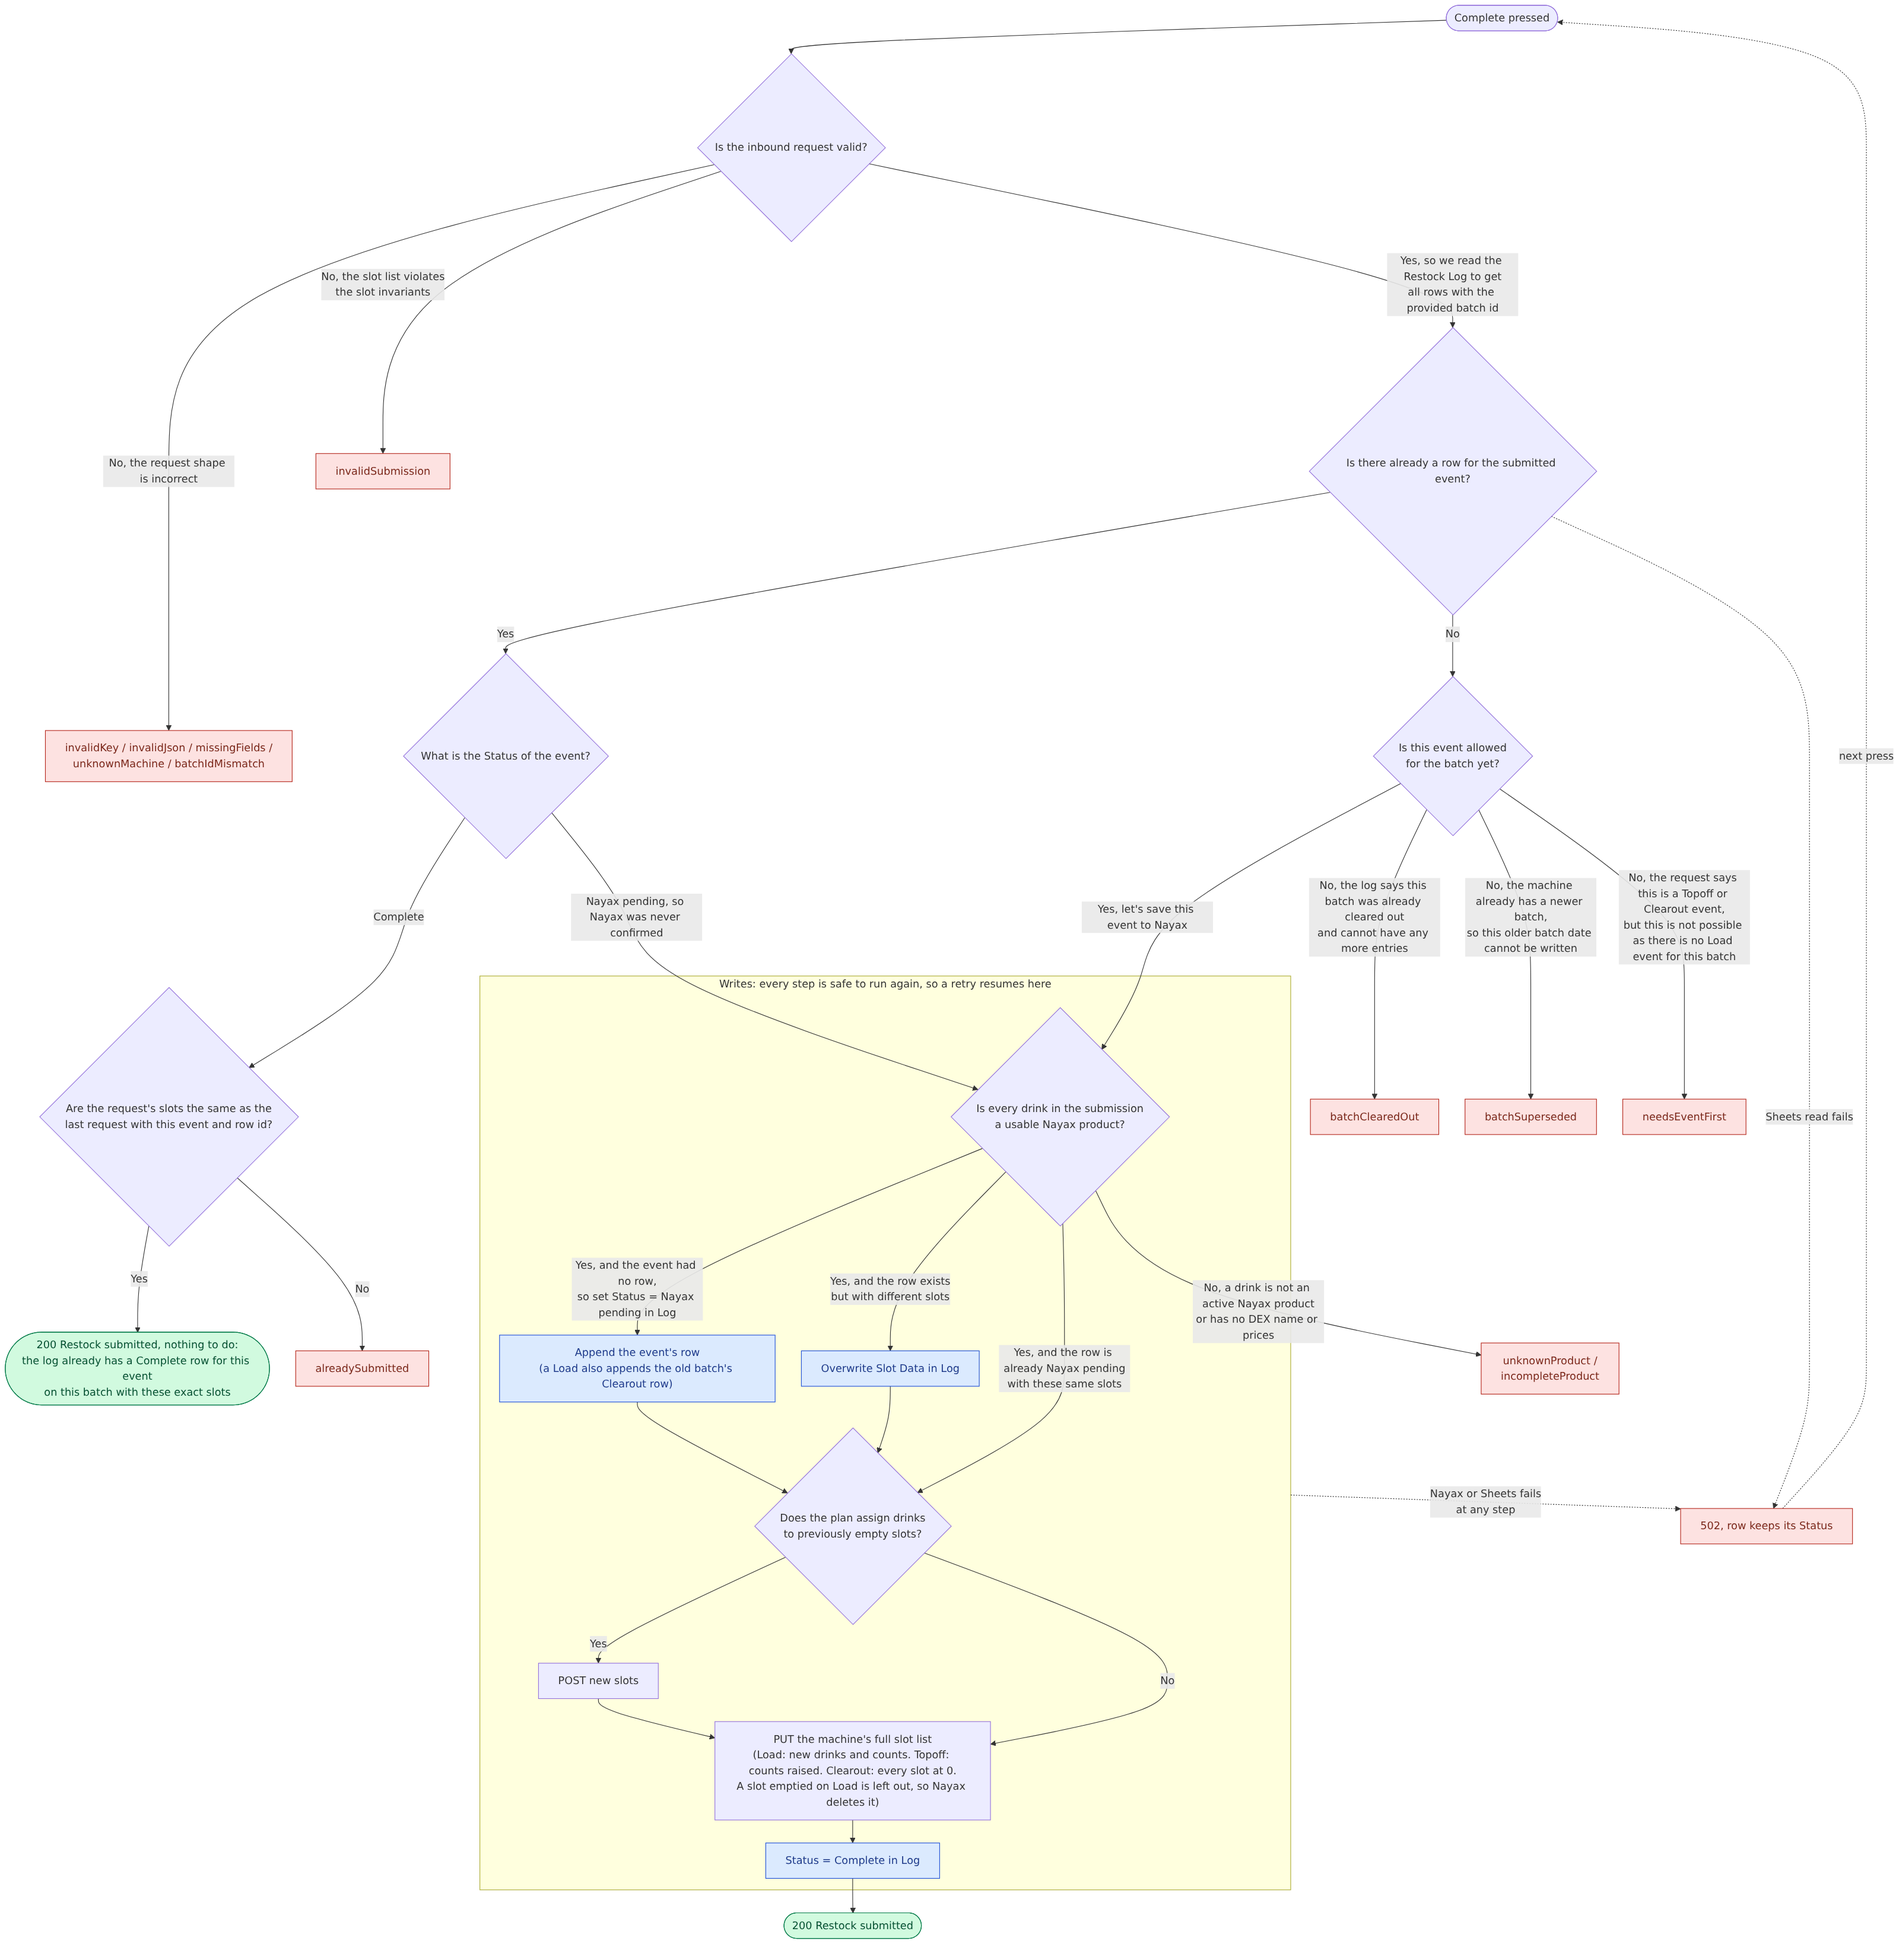
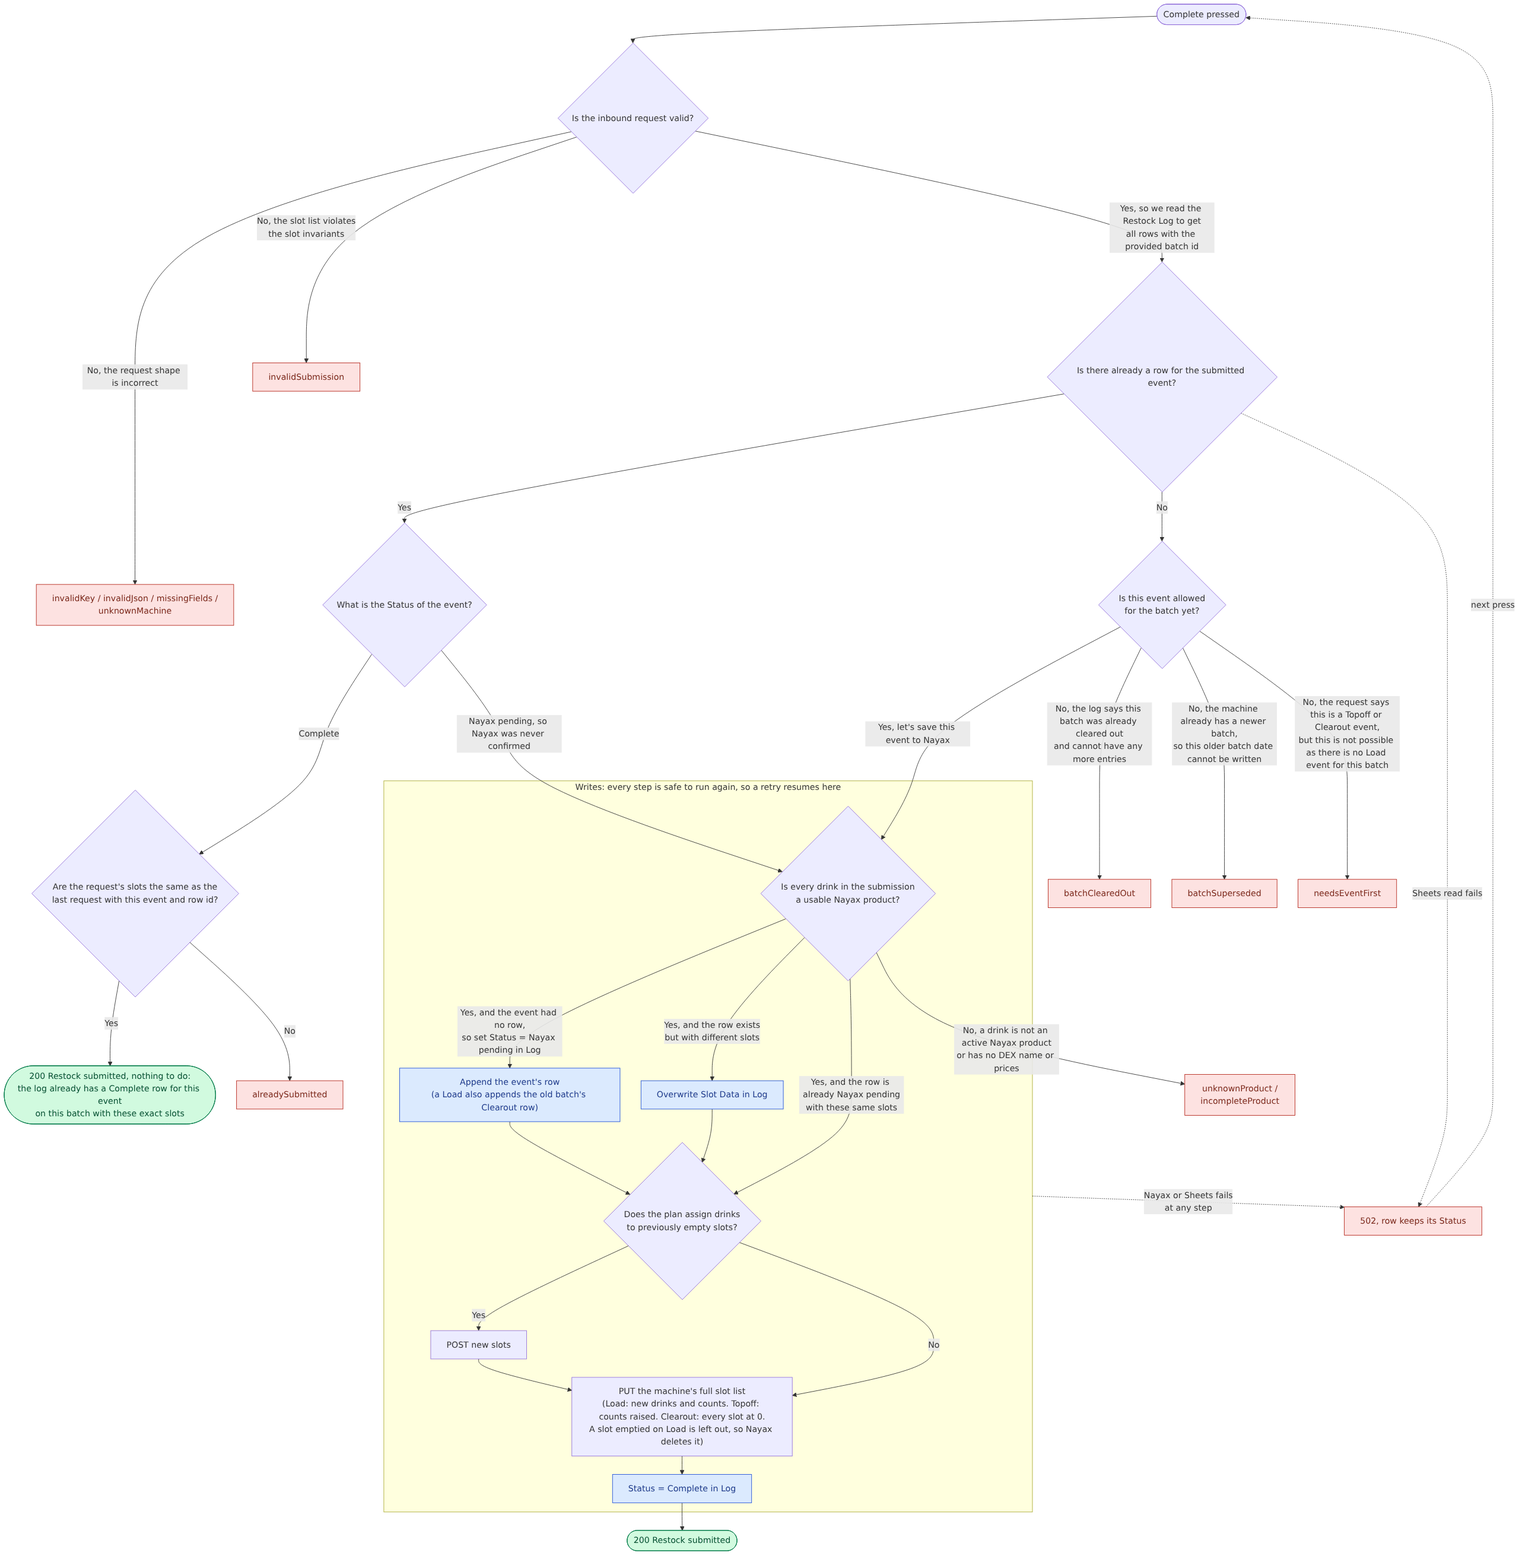
Return a Split when the Inventory tab has no To columns

diff --git a/src/lib/restock/restock-prefill.js b/src/lib/restock/restock-prefill.js
@@ -4,6 +4,8 @@ import {
   getAmountHeader,
   getMachineSlots,
   getSlotHeader,
+  KITCHEN_LABEL,
+  MACHINE_CONFIG,
   RESTOCK_EVENTS,
   RESTOCK_LOG_HEADER,
 } from "./config.js";
@@ -190,6 +192,74 @@ function prefillFromLogRow(batchId, row) {
 }
 
 /**
+ * The kitchen's split of fridge storage between both machines, decided from
+ * what every slot holds now.
+ * @param {string} date YYYY-MM-DD
+ * @param {object[]} inventoryRows rows of that date's Inventory tab (Drink, Storage)
+ * @param {Record<string, object[]>} fetchedProducts Nayax products already read, by machine label, so a machine is not fetched twice
+ * @returns {Promise<{ batchId: string, event: string, drinks: { drink: string, storage: number, to30th: number, toTowne: number }[], warnings: object[] }>}
+ */
+async function buildSplitData(date, inventoryRows, fetchedProducts) {
+  const warnings = [];
+  const productsByMachine = await Promise.all(
+    MACHINE_CONFIG.map(
+      (config) =>
+        fetchedProducts[config.label] ?? getMachineProducts(config.machineId),
+    ),
+  );
+  const candidates = MACHINE_CONFIG.flatMap((config, index) =>
+    getTopoffCandidates(
+      config,
+      buildMachineSlots(
+        productsByMachine[index],
+        config,
+        RESTOCK_EVENTS.SPLIT,
+        warnings,
+      ),
+    ),
+  );
+
+  assertReadableDrinks(
+    `Inventory tab ${inventoryTabName(date)}`,
+    KITCHEN_LABEL,
+    inventoryRows,
+    (row) => getRowValue(row, "Drink"),
+    (row) => parseInteger(getRowValue(row, "Storage")),
+  );
+  const rows = inventoryRows.map((row) => ({
+    drink: normalizeDrinkName(getRowValue(row, "Drink")),
+    drinkKey: canonicalDrinkKey(getRowValue(row, "Drink")),
+    storage: parseInteger(getRowValue(row, "Storage")),
+  }));
+
+  allocateTopoffStorage(
+    new Map(rows.map((row) => [row.drinkKey, row.storage])),
+    candidates,
+  );
+
+  const drinks = rows.map((row) => {
+    const drink = { drink: row.drink, storage: row.storage };
+    for (const config of MACHINE_CONFIG) {
+      drink[`to${config.label}`] = candidates
+        .filter(
+          (candidate) =>
+            candidate.machineLabel === config.label &&
+            candidate.drinkKey === row.drinkKey,
+        )
+        .reduce((sum, candidate) => sum + candidate.allocation, 0);
+    }
+    return drink;
+  });
+
+  return {
+    batchId: `${KITCHEN_LABEL}-${date}`,
+    event: RESTOCK_EVENTS.SPLIT,
+    drinks,
+    warnings,
+  };
+}
+
+/**
  * Builds the machine slot form payload for the next restock event for a
  * machine/date. An unfinished submit is returned as stored. `logRows` and
  * `machineProducts` can be passed in by a caller that already read them.
@@ -236,6 +306,20 @@ export async function buildRestockData(machineConfig, date, options = {}) {
         ? readInventoryRows(date)
         : null,
   ]);
+
+  if (
+    event === RESTOCK_EVENTS.TOPOFF &&
+    sheetRows.length > 0 &&
+    !MACHINE_CONFIG.some((config) =>
+      sheetRows.some((row) =>
+        findColumnName(row, getInventoryMachineHeader(config)),
+      ),
+    )
+  ) {
+    return buildSplitData(date, sheetRows, {
+      [machineConfig.label]: machineProducts,
+    });
+  }
 
   const warnings = [];
   const slots = buildMachineSlots(
@@ -303,29 +387,6 @@ export async function buildRestockData(machineConfig, date, options = {}) {
   if (event === RESTOCK_EVENTS.TOPOFF) {
     const inventoryRows = sheetRows;
     const inventoryMachineHeader = getInventoryMachineHeader(machineConfig);
-    const hasMachineAllocationColumn = inventoryRows.some((row) =>
-      findColumnName(row, inventoryMachineHeader),
-    );
-
-    if (inventoryRows.length > 0 && !hasMachineAllocationColumn) {
-      addWarning(warnings, {
-        code: "MISSING_INVENTORY_ALLOCATION_COLUMN",
-        expectedColumn: inventoryMachineHeader,
-        availableColumns: [
-          ...new Set(
-            inventoryRows.flatMap((row) =>
-              Object.keys(row).filter(
-                (columnName) => columnName !== "_rowNumber",
-              ),
-            ),
-          ),
-        ],
-        message: WARNINGS.missingInventoryAllocationColumn(
-          machineConfig.label,
-          inventoryMachineHeader,
-        ),
-      });
-    }
 
     const storageByDrink = new Map(
       inventoryRows.map((row) => [

diff --git a/src/lib/restock/restock-sheets.js b/src/lib/restock/restock-sheets.js
@@ -145,6 +145,22 @@ export async function readInventoryRows(date) {
   );
 }
 
+/**
+ * @typedef {object} Candidate a slot that can take cans
+ * @property {string} machineLabel
+ * @property {object} slot the slot state from makeSlotState
+ * @property {string} drinkKey the drink held, "" for an empty slot
+ * @property {number} capacityLeft cans that still fit
+ * @property {number} allocation cans given to it so far
+ */
+
+/**
+ * One candidate per slot: a filled slot with room keeps its drink key, an empty
+ * slot gets "". A full slot or one with an unreadable drink is left out.
+ * @param {{ label: string }} machineConfig
+ * @param {object[]} slots slot states from makeSlotState
+ * @returns {Candidate[]}
+ */
 export function getTopoffCandidates(machineConfig, slots) {
   return slots.flatMap((slot) => {
     const empty = !slot.hasCurrentProduct;
@@ -167,6 +183,14 @@ export function getTopoffCandidates(machineConfig, slots) {
   });
 }
 
+/**
+ * Spreads each drink's storage over its candidates, one can at a time to the
+ * slot with the fewest. When every slot holding the drink is full and at least
+ * half a slot remains, the next empty slot on a machine that already holds the
+ * drink takes it. Mutates each candidate's `allocation` and `drinkKey`.
+ * @param {Map<string, number>} storageByDrink drink key -> cans in storage
+ * @param {Candidate[]} candidates from getTopoffCandidates, both machines together
+ */
 export function allocateTopoffStorage(storageByDrink, candidates) {
   const candidatesByDrink = new Map();
   for (const candidate of candidates) {

diff --git a/src/lib/restock/errors.js b/src/lib/restock/errors.js
@@ -108,8 +108,6 @@ export const WARNINGS = {
     `Slot ${slot} has PAR ${par}, but Nayax did not return a readable on-hand count.`,
   openBatchClearedOut: (batchId) =>
     `Batch ${batchId} was never topped off. This Load clears it out.`,
-  missingInventoryAllocationColumn: (machineLabel, header) =>
-    `Inventory is missing an allocation column for ${machineLabel}. Expected a column equivalent to "${header}".`,
 };
 
 /** The hint under Complete when the server rejected the submit with a reason. */

diff --git a/src/lib/restock/config.js b/src/lib/restock/config.js
@@ -19,6 +19,9 @@ export const MACHINE_CONFIG = [
   },
 ];
 
+// Log prefix for the split event log entry
+export const KITCHEN_LABEL = "Kitchen";
+
 export const RESTOCK_LOG_SHEET = "Restock Log";
 export const PRODUCTION_PLAN_SHEET = "Production Plan";
 export const INVENTORY_SHEET = "Inventory";

diff --git a/tests/lib/restock/config.test.js b/tests/lib/restock/config.test.js
@@ -47,6 +47,7 @@ describe("restock config", () => {
       LOAD: "Load",
       TOPOFF: "Topoff",
       CLEAROUT: "Clearout",
+      SPLIT: "Split",
     });
     expect(NAYAX_BASE_URL).toBe("https://lynx.nayax.com/operational/v1");
   });

diff --git a/src/lib/restock/slot-validation-rules.js b/src/lib/restock/slot-validation-rules.js
@@ -6,6 +6,7 @@ export const RESTOCK_EVENTS = {
   LOAD: "Load",
   TOPOFF: "Topoff",
   CLEAROUT: "Clearout",
+  SPLIT: "Split",
 };
 
 /** Load and Clearout take the whole old batch out of the slot. */

diff --git a/docs/restock.md b/docs/restock.md
@@ -9,7 +9,7 @@
 %%{init: {"flowchart": {"rankSpacing": 35, "nodeSpacing": 40, "wrappingWidth": 360}}}%%
 flowchart TD
   A([Complete pressed]) --> Q1{Is the inbound request valid?}
-  Q1 -- "No, the request shape is incorrect" --> R0["invalidKey / invalidJson / missingFields /<br/>unknownMachine / batchIdMismatch"]
+  Q1 -- "No, the request shape is incorrect" --> R0["invalidKey / invalidJson / missingFields /<br/>unknownMachine"]
   Q1 -- "No, the slot list violates<br/>the slot invariants" --> R1[invalidSubmission]
   Q1 -- "Yes, so we read the Restock Log to get<br/>all rows with the provided batch id" --> Q2{"Is there already a row for the submitted event?"}
   Q2 -- Yes --> ST{"What is the Status of the event?"}
